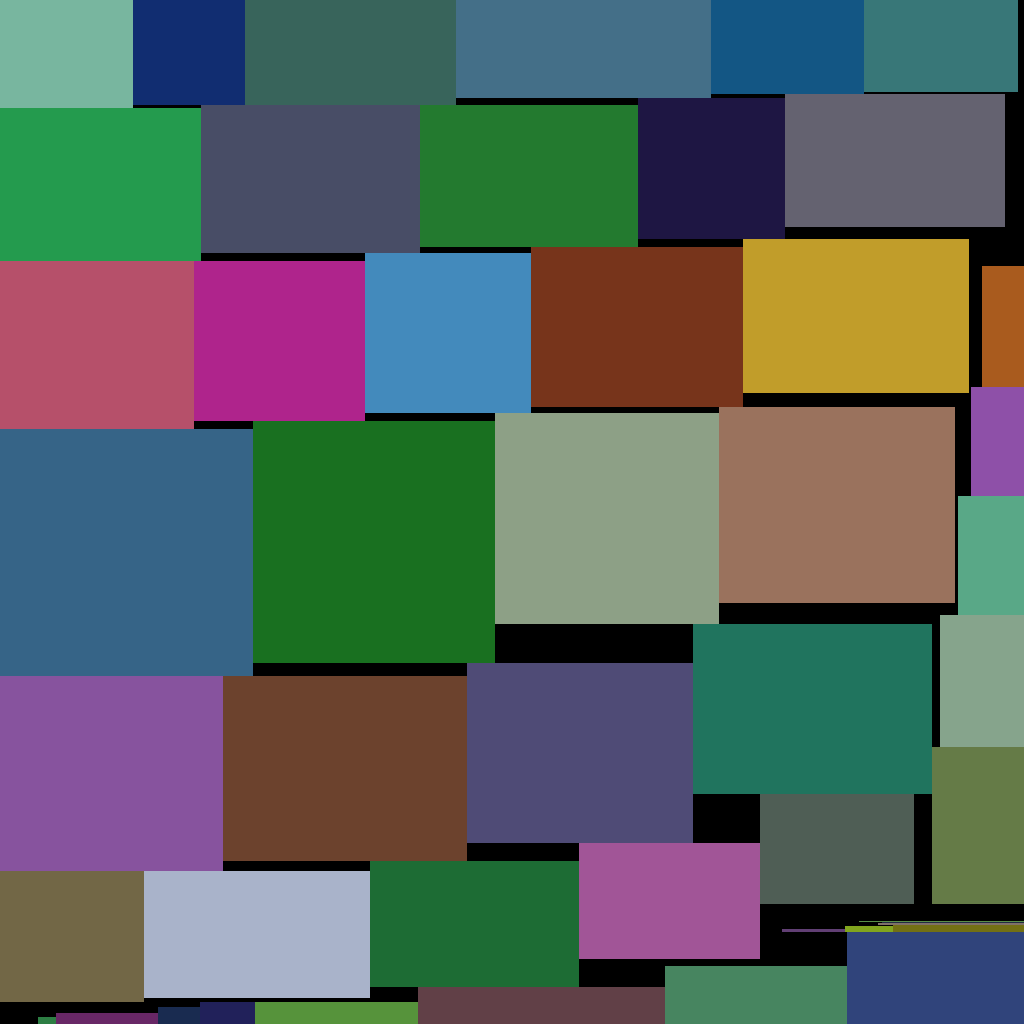
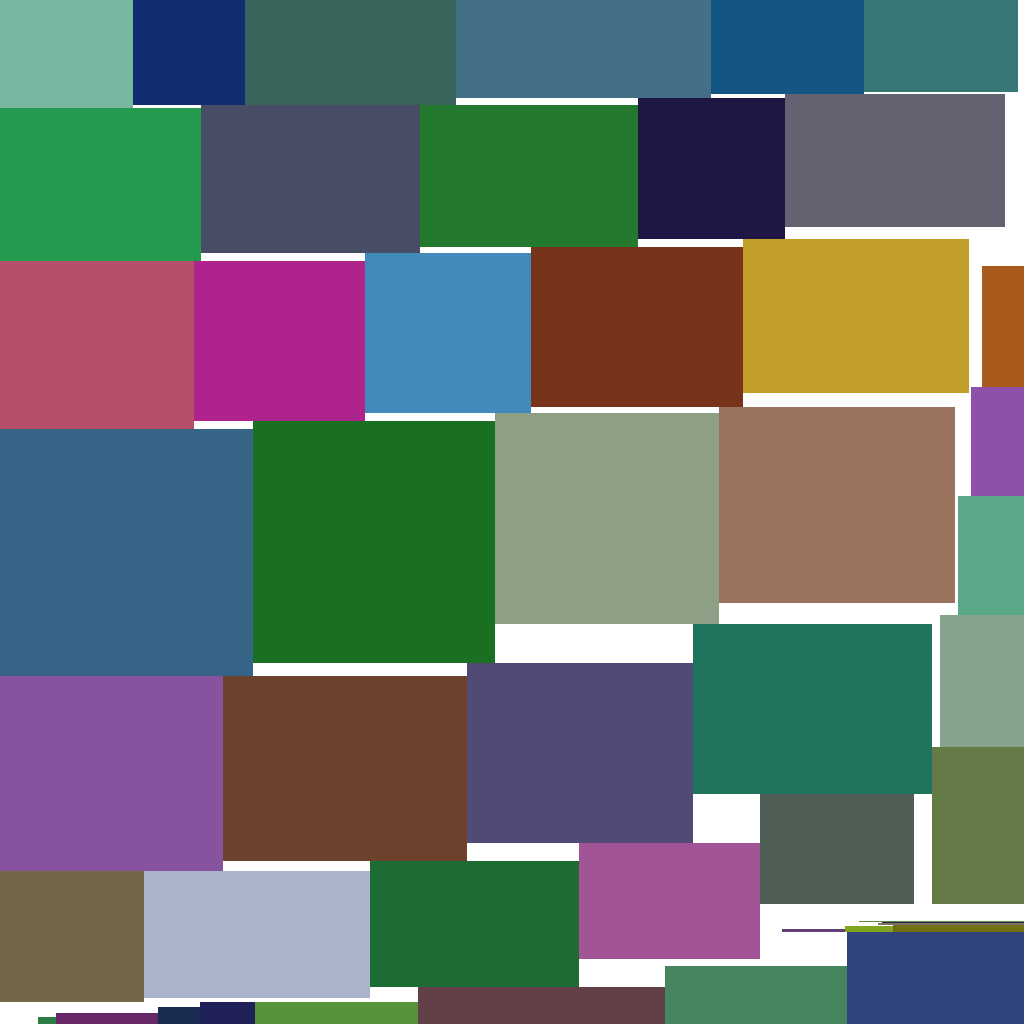
Make background transparent

diff --git a/texture-packer/src/main/ViewGroupFactory/TexturePackerViewGroupFactory.cpp b/texture-packer/src/main/ViewGroupFactory/TexturePackerViewGroupFactory.cpp
@@ -53,7 +53,7 @@ using std::function;
 
 namespace ii887522::texturePacker {
 
-TexturePackerViewGroupFactory::TexturePackerViewGroupFactory(const string& inputDirPath, const string& outputDirPath, const Size<int>& atlasSize) : ViewGroupFactory{ },
+TexturePackerViewGroupFactory::TexturePackerViewGroupFactory(const string& inputDirPath, const string& outputDirPath, const Size<int>& atlasSize) : ViewGroupFactory{ }, atlas{ nullptr },
   outputDirPath{ outputDirPath }, spriteRects{ Rect{ Point{ 0.f, 0.f }, static_cast<Size<float>>(atlasSize) } }, currentPendingIndices{ &lPendingIndices },
   nextPendingIndices{ &rPendingIndices }, gap{ 0 }, indicesI{ 0u }, atlasIndex{ 0u } {
   emptyDir(outputDirPath);
@@ -296,6 +296,8 @@ Action TexturePackerViewGroupFactory::fillLShape(ViewGroup*const self, SDL_Rende
 }
 
 ViewGroup TexturePackerViewGroupFactory::make(SDL_Renderer*const renderer, const Size<int>& size) {
+  atlas = SDL_CreateTexture(renderer, SDL_PIXELFORMAT_RGBA8888, SDL_TEXTUREACCESS_TARGET, size.w, size.h);
+  SDL_SetRenderTarget(renderer, atlas);
   return ViewGroup{ renderer, Point{ 0, 0 }, [](ViewGroup&, SDL_Renderer*const) {
     return vector<View*>{ };
   }, [this, renderer, size](ViewGroup& self) {
@@ -321,6 +323,7 @@ ViewGroup TexturePackerViewGroupFactory::make(SDL_Renderer*const renderer, const
 
 TexturePackerViewGroupFactory::~TexturePackerViewGroupFactory() {
   write<Sprite, vector>(outputDirPath + "atlas.dat", sprites);
+  SDL_DestroyTexture(atlas);
 }
 
 }  // namespace ii887522::texturePacker

diff --git a/texture-packer/src/main/ViewGroupFactory/TexturePackerViewGroupFactory.h b/texture-packer/src/main/ViewGroupFactory/TexturePackerViewGroupFactory.h
@@ -44,6 +44,7 @@ class TexturePackerViewGroupFactory final : public ViewGroupFactory {
   TexturePackerViewGroupFactory(TexturePackerViewGroupFactory&&) = delete;
   TexturePackerViewGroupFactory& operator=(TexturePackerViewGroupFactory&&) = delete;
 
+  SDL_Texture* atlas;
   const string outputDirPath;  // It ends with either '/' or '\\'
   vector<Sprite> sprites;  // See also ../Struct/Sprite.h for more details
   vector<SDL_Surface*> surfaces;
